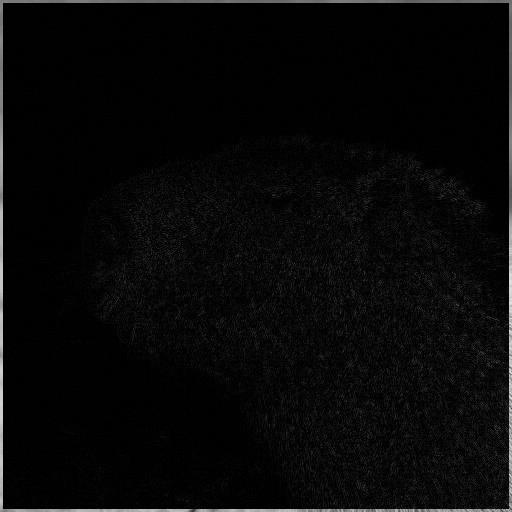
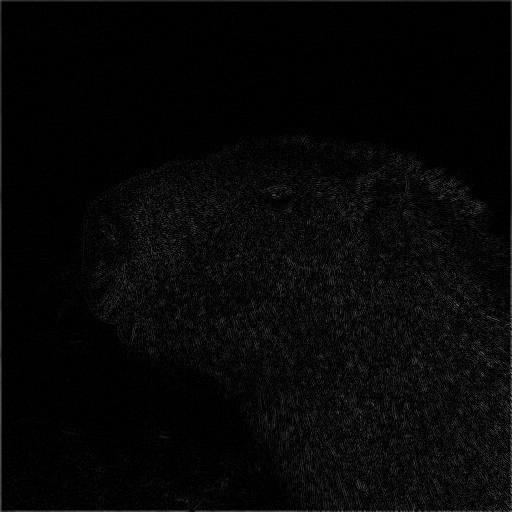
lab3 p2 gauss update

Changed region(s): [[0.0, 0.0, 1.0, 1.0]]

diff --git a/lab_2/task_2.py b/lab_2/task_2.py
@@ -76,26 +76,32 @@ def median_filter(image, kernel_size):
     return new_image
 
 
-def gaussian_filter(image, sigma):
-    kernel_size = int(6 * sigma + 1)
-    if kernel_size % 2 == 0:
-        kernel_size += 1
-
-    offset = kernel_size // 2
-    kernel = [[0] * kernel_size for _ in range(kernel_size)]
-
-    for y in range(-offset, offset + 1):
-        for x in range(-offset, offset + 1):
-            kernel[y + offset][x + offset] = (
-                    1 / (2 * np.pi * sigma ** 2) *
-                    np.exp(-(x ** 2 + y ** 2) / (2 * sigma ** 2))
-            )
-
-    return apply_kernel(image, kernel)
+# Функция для создания Гауссова ядра с помощью numpy
+def generate_gaussian_kernel_np(k, sigma):
+    ax = np.arange(-k, k + 1)
+    xx, yy = np.meshgrid(ax, ax)
+    kernel = np.exp(-(xx ** 2 + yy ** 2) / (2. * sigma ** 2))
+    return kernel / np.sum(kernel)
 
 
-def sigma_filter(image, sigma):
-    blurred_image = gaussian_filter(image, sigma)
+# Функция для применения Гауссова фильтра
+def gaussian_filter(image, k, sigma):
+    image = np.array(image)
+
+    kernel = generate_gaussian_kernel_np(k, sigma)
+    padded_image = np.pad(image, k, mode='constant')
+    filtered_image = np.zeros_like(image)
+
+    for i in range(image.shape[0]):
+        for j in range(image.shape[1]):
+            window = padded_image[i:i + 2 * k + 1, j:j + 2 * k + 1]
+            filtered_image[i, j] = np.sum(window * kernel)
+
+    return Image.fromarray(filtered_image.astype('uint8'))
+
+
+def sigma_filter(image, k, sigma):
+    blurred_image = gaussian_filter(image, k, sigma)
     diff_image = absolute_difference(image, blurred_image)
     return blurred_image, diff_image
 
@@ -133,8 +139,8 @@ if __name__ == "__main__":
 
     rectangular_filtered_image = rectangular_filter(input_image, kernel_size=3)
     median_filtered_image = median_filter(input_image, kernel_size=3)
-    gaussian_filtered_image = gaussian_filter(input_image, sigma=1)
-    sigma_filtered_image, diff_image = sigma_filter(input_image, sigma=1)
+    gaussian_filtered_image = gaussian_filter(input_image, k=1, sigma=1)
+    sigma_filtered_image, diff_image = sigma_filter(input_image, k=2, sigma=1)
 
     sharpness_level_original = sharpness_measure(input_image)
     print(f"Уровень резкости исходного изображения: {sharpness_level_original}")
